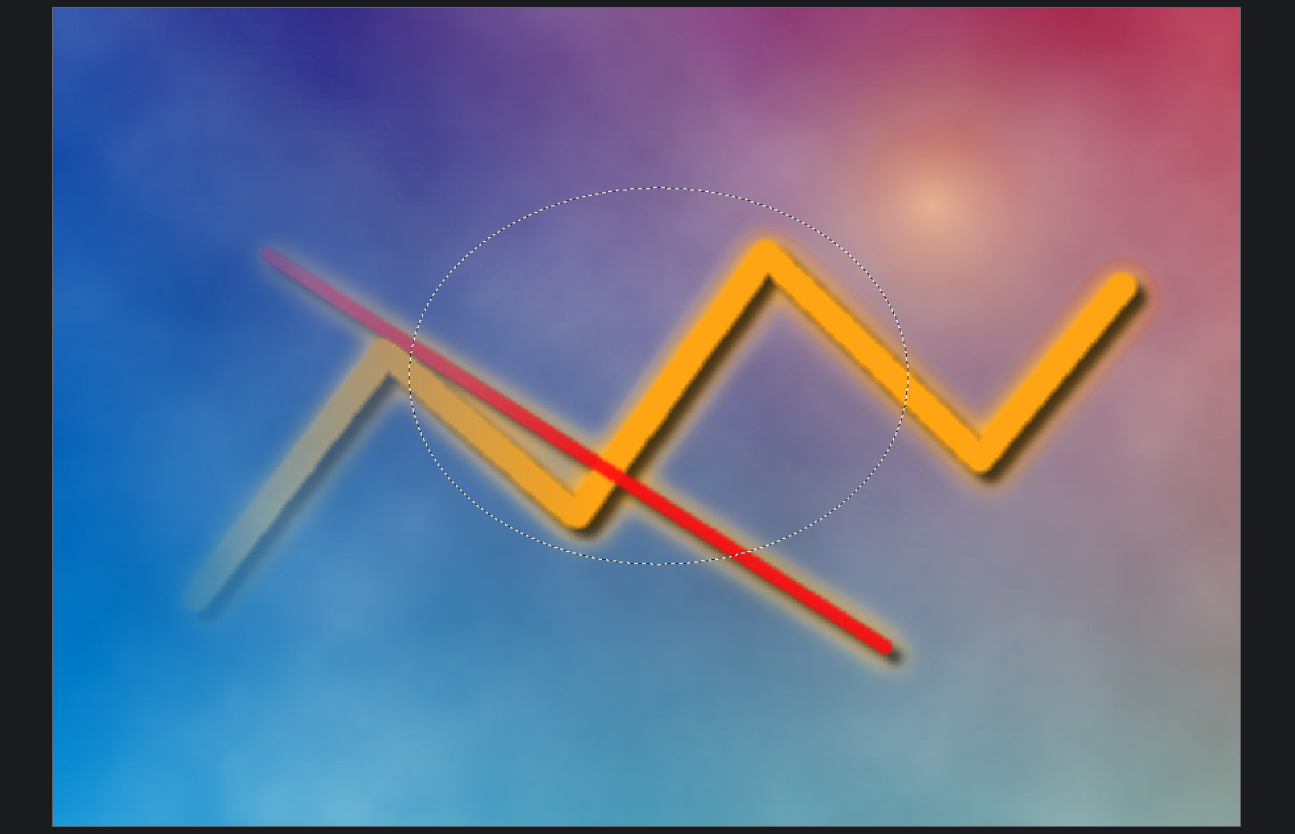
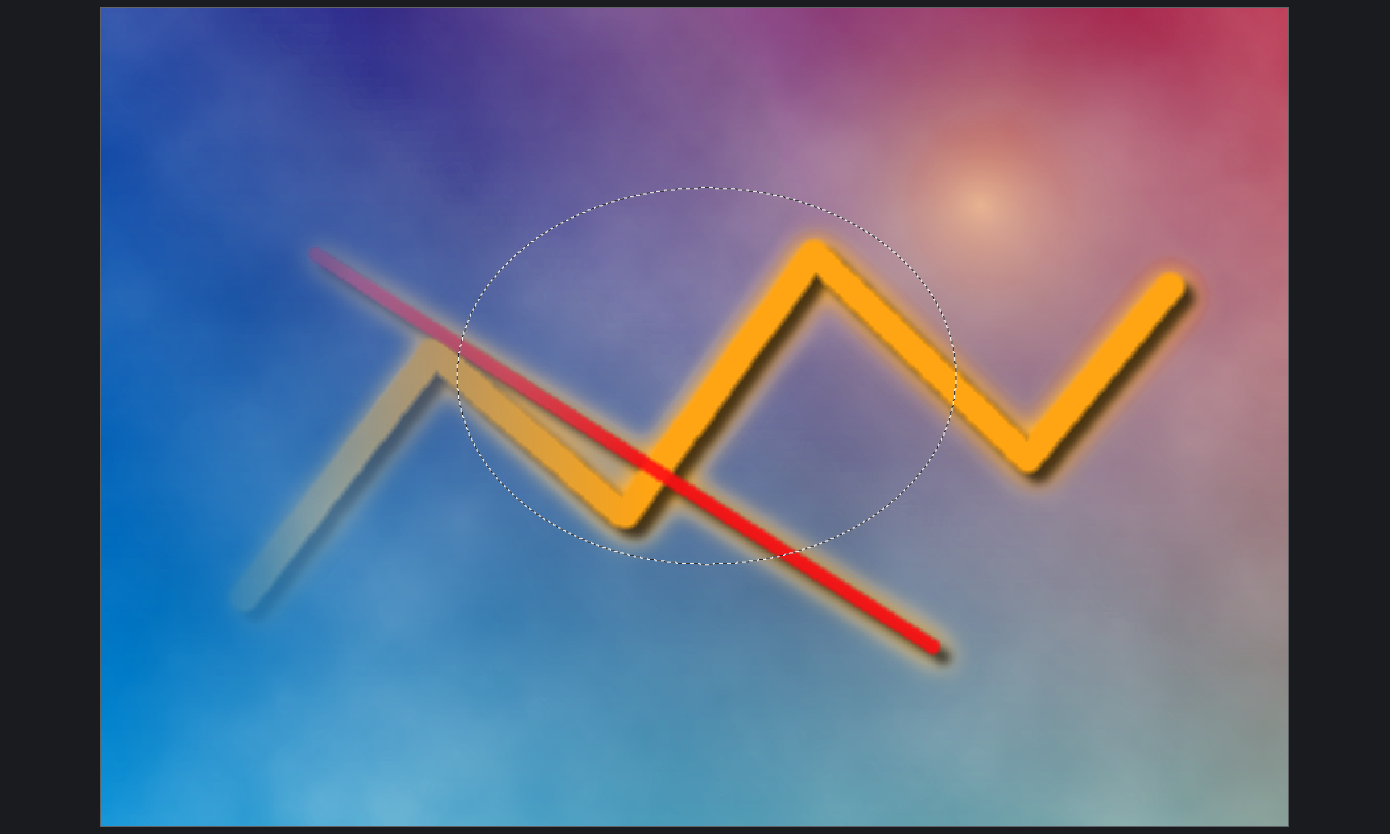
Stop the panels from losing their contents in a crowded column
Three things a docked panel got wrong. The Colors panel is the tall one, and
when History and Layers shared its column the layout squeezed the rows of
swatches away to nothing: the recent colours and the palette simply were not
there. The panel now keeps the height its contents are worth and the dock
scrolls to it, and a row of swatches reserves the height it is actually drawn
at rather than being cut off halfway.

The tools palette filled the whole side of the window with ten rows of buttons
and a great deal of nothing. It is capped at the height of its own grid, so it
is the size docked that it is floating.

The close and float buttons on a title bar were 18 px with no hover state at
all, so the only sign that the pointer was on one was the tooltip a second
later. They are 22 px now and light up under the pointer.

The screenshots are regenerated, demo included, since all three show.

diff --git a/tests/gui_tests.cpp b/tests/gui_tests.cpp
@@ -23,6 +23,9 @@
 #include <QLabel>
 #include <QMenu>
 #include <QPushButton>
+#include <QDockWidget>
+#include <QScrollBar>
+#include <QScrollArea>
 #include <QShortcut>
 #include <QSettings>
 #include <QSpinBox>
@@ -2493,6 +2496,68 @@ int main(int argc, char** argv)
         brush->optionChanged(QStringLiteral("antialias"), 2);
         brush->optionChanged(QStringLiteral("width"), 12);
         brush->optionChanged(QStringLiteral("hardness"), 75);
+    });
+
+    addTest("a crowded column scrolls the Colors panel instead of flattening it", [] {
+        // The wheel, the value and alpha bars, the recent row and the palette
+        // do not all fit beside History and Layers in a short window. The
+        // layout used to squeeze the rows of swatches to nothing, which is
+        // what the panel loses first and misses most.
+        MainWindow window;
+        window.newDocument(400, 300, Rgba(255, 255, 255, 255));
+        window.resize(1400, 760);
+        window.show();
+        QApplication::processEvents();
+
+        auto* colors = window.findChild<ColorPanel*>();
+        CHECK(colors != nullptr);
+        auto* scroll = window.findChild<QScrollArea*>();
+        CHECK(scroll != nullptr);
+        if (!colors || !scroll)
+            return;
+        // Whatever the dock can spare, the panel keeps its own height.
+        CHECK(colors->height() >= colors->minimumSizeHint().height());
+        CHECK(colors->minimumSizeHint().height() > 300);
+        // Which means the swatches are drawn at a size worth clicking.
+        for (PaletteGrid* grid : window.findChildren<PaletteGrid*>()) {
+            check(grid->height() >= 14, "a row of swatches is not flattened",
+                  __LINE__);
+        }
+        // And when that does not fit, the dock scrolls to it.
+        if (scroll->viewport()->height() < colors->height())
+            CHECK(scroll->verticalScrollBar()->isVisible());
+    });
+
+    addTest("the tools palette is no taller than its buttons", [] {
+        // A dock fills its column, which left the palette stretched down the
+        // whole side of the window with most of it empty.
+        MainWindow window;
+        window.newDocument(400, 300, Rgba(255, 255, 255, 255));
+        window.resize(1400, 900);
+        window.show();
+        QApplication::processEvents();
+        auto* tools = window.findChild<ToolsPalette*>();
+        auto* dock = window.findChild<QDockWidget*>(QStringLiteral("toolsDock"));
+        CHECK(tools != nullptr && dock != nullptr);
+        if (!tools || !dock)
+            return;
+        CHECK(tools->height() <= tools->maximumHeight());
+        CHECK(tools->height() < 500);          // not the height of the window
+        CHECK(tools->height() > 250);          // but enough for ten rows
+        // The title bar buttons are big enough to hit without aiming.
+        int sized = 0;
+        for (QAbstractButton* button : dock->findChildren<QAbstractButton*>()) {
+            const QString name = button->objectName();
+            if (name != QLatin1String("qt_dockwidget_closebutton")
+                && name != QLatin1String("qt_dockwidget_floatbutton"))
+                continue;
+            ++sized;
+            check(button->width() >= 22 && button->height() >= 22,
+                  "a dock title button is big enough to hit", __LINE__);
+            check(button->testAttribute(Qt::WA_Hover),
+                  "a dock title button lights up under the pointer", __LINE__);
+        }
+        CHECK(sized == 2);
     });
 
     addTest("no two commands claim the same key", [] {

diff --git a/src/ui/MainWindow.cpp b/src/ui/MainWindow.cpp
@@ -28,6 +28,7 @@
 #include <QPrintDialog>
 #include <QPrinter>
 #include <QScreen>
+#include <QScrollArea>
 #include <QSettings>
 #include <QSignalBlocker>
 #include <QShortcut>
@@ -939,7 +940,16 @@ void MainWindow::createDocks()
     toolsDock_ = makeDock(tr("Tools"), tools_, QStringLiteral("toolsDock"));
 
     colors_ = new ColorPanel(this);
-    colorsDock_ = makeDock(tr("Colors"), colors_, QStringLiteral("colorsDock"));
+    // The Colors panel is the tall one: wheel, value and alpha, the recent
+    // row and the palette. In a short dock the layout used to squeeze the
+    // rows of swatches down to nothing, so the panel keeps its own height and
+    // the dock scrolls to it instead.
+    auto* colorsScroll = new QScrollArea(this);
+    colorsScroll->setWidget(colors_);
+    colorsScroll->setWidgetResizable(true);
+    colorsScroll->setFrameShape(QFrame::NoFrame);
+    colorsScroll->setHorizontalScrollBarPolicy(Qt::ScrollBarAlwaysOff);
+    colorsDock_ = makeDock(tr("Colors"), colorsScroll, QStringLiteral("colorsDock"));
 
     history_ = new HistoryPanel(this);
     historyDock_ = makeDock(tr("History"), history_,
@@ -1148,16 +1158,19 @@ void MainWindow::styleDockButtons(QDockWidget* dock)
     for (QAbstractButton* button : dock->findChildren<QAbstractButton*>()) {
         const QString name = button->objectName();
         if (name == QLatin1String("qt_dockwidget_closebutton")) {
-            button->setIcon(icons::get(QStringLiteral("close"), 14));
+            button->setIcon(icons::get(QStringLiteral("close"), 16));
             button->setToolTip(tr("Close this panel"));
         } else if (name == QLatin1String("qt_dockwidget_floatbutton")) {
-            button->setIcon(icons::get(QStringLiteral("copy"), 14));
+            button->setIcon(icons::get(QStringLiteral("copy"), 16));
             button->setToolTip(tr("Float or dock this panel"));
         } else {
             continue;
         }
-        button->setIconSize(QSize(14, 14));
-        button->setFixedSize(18, 18);
+        button->setIconSize(QSize(16, 16));
+        button->setFixedSize(22, 22);
+        // Without this the only sign that the pointer is on the button is the
+        // tooltip, a second later, and the button feels dead until then.
+        button->setAttribute(Qt::WA_Hover, true);
     }
 }
 

diff --git a/src/ui/Theme.cpp b/src/ui/Theme.cpp
@@ -100,6 +100,13 @@ QDockWidget::close-button, QDockWidget::float-button {
     padding: 0; margin: 2px; }
 QDockWidget::close-button:hover, QDockWidget::float-button:hover {
     background: %5; border-color: %5; }
+/* The title bar buttons are real widgets, direct children of the dock, so the
+   pseudo element rules above do not reach them once they carry our own icons.
+   A panel's own buttons sit inside its content widget and are left alone. */
+QDockWidget > QAbstractButton {
+    background: transparent; border: 1px solid transparent; border-radius: 3px; }
+QDockWidget > QAbstractButton:hover { background: %5; border-color: %5; }
+QDockWidget > QAbstractButton:pressed { background: %6; border-color: %6; }
 QDockWidget::title { background: %2; padding: 5px 8px; border-bottom: 1px solid %6;
                      text-align: left; font-weight: 600; }
 QDockWidget > QWidget { background: %1; }

diff --git a/src/ui/ColorPanel.cpp b/src/ui/ColorPanel.cpp
@@ -387,6 +387,18 @@ QSize PaletteGrid::sizeHint() const
     return QSize(columns() * 14, rowCount() * 14 + 2);
 }
 
+// The height a row of swatches is worth is not negotiable: a short panel
+// scrolls rather than squeezing the rows away to nothing, which is what used
+// to happen to the recent colours and the palette in a crowded column. The
+// width still is, since a cell is sized from the width that is going.
+QSize PaletteGrid::minimumSizeHint() const
+{
+    // Reserved at the largest a cell is ever drawn, since the panel asks for
+    // this before it knows how wide it will be, and a row half cut off is
+    // exactly the thing being fixed.
+    return QSize(columns() * 10, rowCount() * 18 + 2);
+}
+
 void PaletteGrid::paintEvent(QPaintEvent*)
 {
     QPainter painter(this);

diff --git a/src/ui/Docks.cpp b/src/ui/Docks.cpp
@@ -100,6 +100,10 @@ ToolsPalette::ToolsPalette(QWidget* parent) : QWidget(parent)
     // float and close buttons instead of eliding it away.
     setMinimumWidth(72);
     setMaximumWidth(118);
+    // And no taller than the buttons it holds. A dock fills its column, which
+    // left the palette stretched down the whole side of the window with most
+    // of it empty; capping the height keeps it the size it is floating.
+    setMaximumHeight(grid->minimumSize().height());
 }
 
 void ToolsPalette::setCurrentTool(const QString& toolId)

diff --git a/src/ui/ColorPanel.h b/src/ui/ColorPanel.h
@@ -135,6 +135,7 @@ protected:
     void paintEvent(QPaintEvent* event) override;
     void mousePressEvent(QMouseEvent* event) override;
     QSize sizeHint() const override;
+    QSize minimumSizeHint() const override;
 
 private:
     int indexAt(QPoint pos) const;
